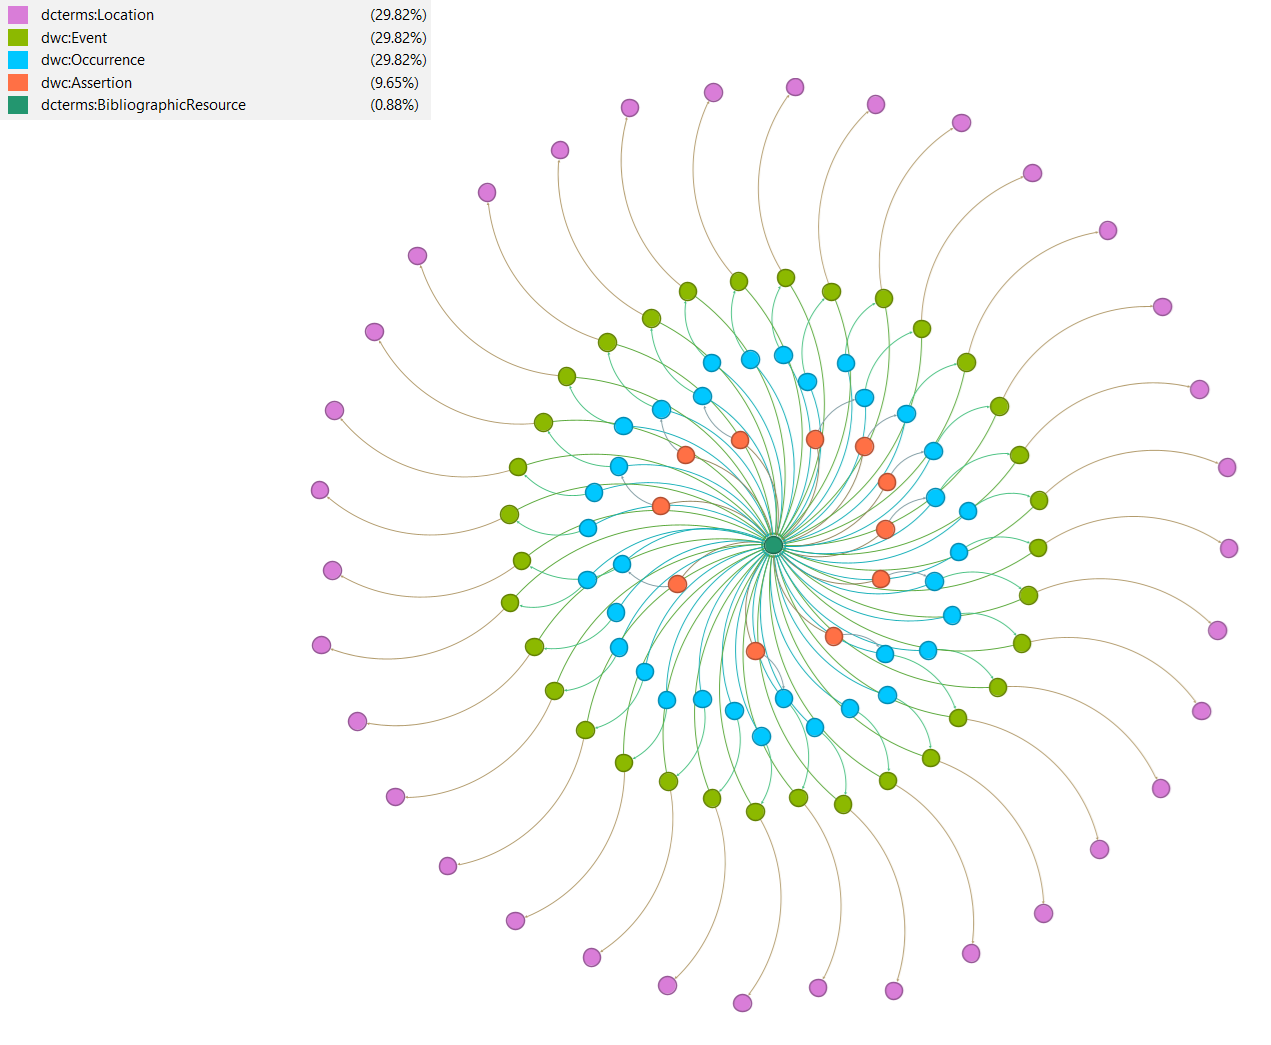
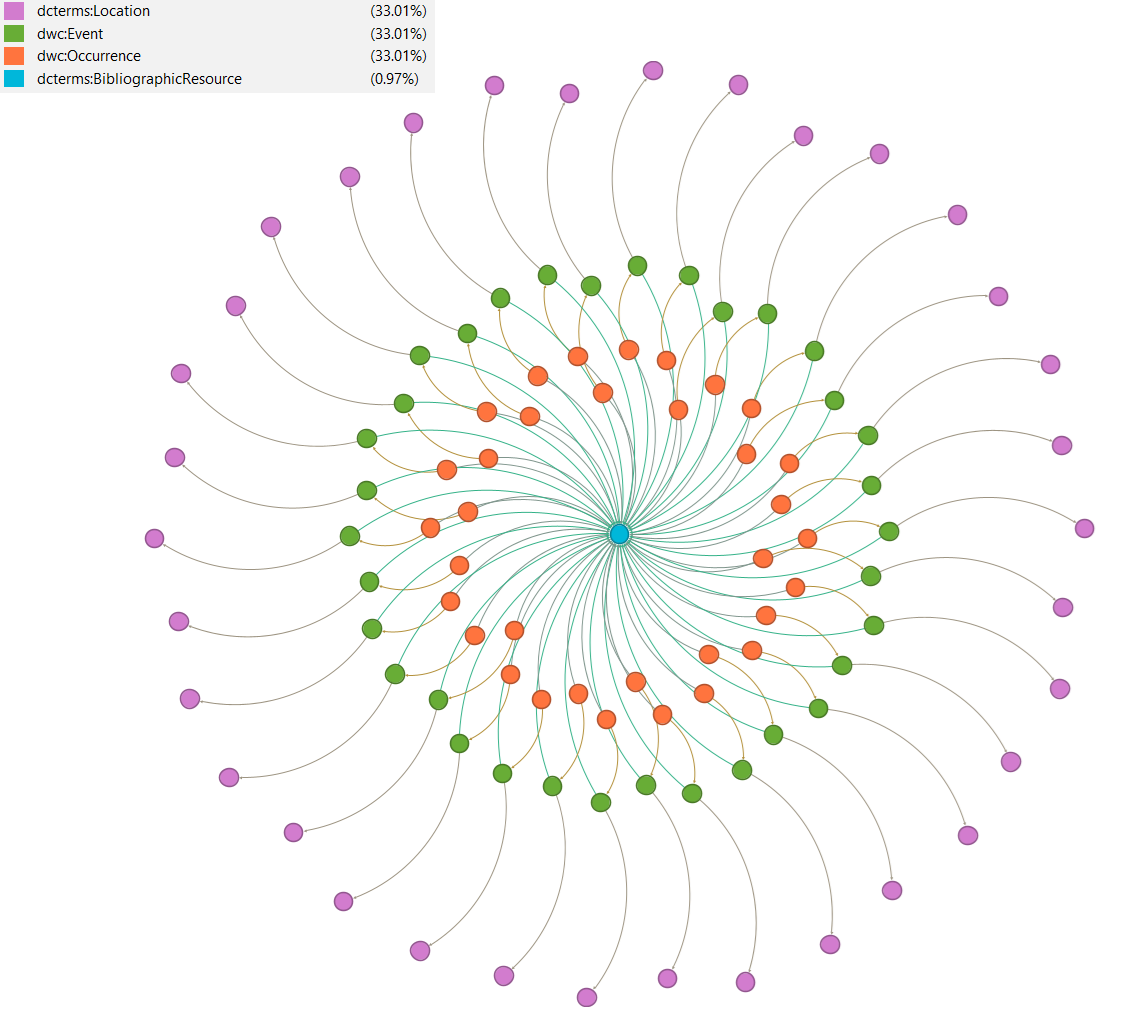
add solidobalanus records dataset text

diff --git a/README.md b/README.md
@@ -289,6 +289,136 @@ Values in the `dwc:occurrenceID` column follow the form `urn:catalog:JAMSTEC:god
 
 In this case, the object properties `dwcdp:hasSubjectOrientation` and `dwcdp:hasSubjectPart` play a role similar to `ac:subjectOrientationIRI` and `ac:subjectPartIRI`. However, the difference is that the `dwcdp:` bridges the gap between the OWL ontology and the SKOS vocabulary, by creating a subclass of `skos:Concept`. This allows for the creation an enumerated range for the object property and the consideration of various vocabularies.
 
+### *Solidobalanus fallax* records publication
+
+- **Dataset definition**: In 2004, the `Journal of the Marine Biological Association of the United Kingdom` (volume 84) published a paper titled `Habitat and distribution of the warm-water barnacle Solidobalanus fallax (Crustacea: Cirripedia) records`. The paper compiles occurrence records for the barnacle *Solidobalanus fallax* in the Plymouth area (south-west England). Records derive from a variety of sources, including trawl surveys on the Plymouth inshore grounds (since 1994), SCUBA observations (since 2000), and personal communications. The species is noted as having the potential to become a pest of aquaculture infrastructure south of Britain.
+
+- **Dataset organization**: The dataset can be downloaded either [from OBIS](https://obis.org/dataset/2218a192-6760-4718-bb1f-0f9d827fa291) or [from GBIF](https://www.gbif.org/dataset/29e95cd7-4759-4aa7-bde0-8463118c873a). Both endpoints give the same dataset. Within the Darwin Core Archive are three files, `occurrence.txt` which provides information the occurrences and one absence of the barnacle, `events.txt` which provides information about every record and finally `extendedmeasurementorfact.txt` which provides information about the abundance of each occurrence.
+
+- **Modelling considerations**: Because the dataset documents occurrences of a single species, a compact modelling approach is enough to capture the information. The classes used are `dwc:Occurrence`, `dwc:Event`, and `dcterms:Location`. These classes capture the spatial, temporal, and taxonomic aspects of the records without introducing unnecessary complexity.
+
+- **Ontology subset considered**: The ontology subset used to model this dataset comprised of `dwc:Occurrence`, `dwc:Event`, and `dcterms:Location`. The publication that collated the records was modelled as a `dcterms:BibliographicResource` and linked to occurrences and events using the object property `dwcdp:mentionedIn`.
+
+![Ontology subset for the solidobalanus dataset](images/subset/solidobalanus-small.png)
+
+- **Additions made**: The dataset, despite having three files, has less content than the original paper. The original paper provides textual descriptions of the locations, sometimes providing the event type. These were added back as `dwc:locationRemarks` values.
+
+Likewise, the paper also provided information about the substrate or the animals on which the barnacles were recorded. This information can be important to inform possible vectors of this barnacle, and were added back as `dwc:occurrenceRemarks`.
+
+- **Difficulties encountered**: As mentionned, the information contained in the `extendedmeasurementorfact.txt` table is simply the numeric values of the count of the barnacles at each event, when the values are not semiquantitative. Note that subevents are pooled to produce the final count value. The only thing added is the IRI from the NERC vocabulary for the concept of `count of individuals`, which is `<http://vocab.nerc.ac.uk/collection/P01/current/OCOUNT01>`.
+
+  I hesitated between whether to model this count value as a `dwc:Assertion` or not. The hesitancy was in large part to the fact that datatype properties, `dwc:organismQuantity` and `dwc:organismQuantityType`, to do this already exist. This means that providing the values `5` for `dwc:organismQuantity` and `individuals` for `dwc:organismQuantityType` would fill the same role as creating an instance of a `dwc:Assertion` for that same purpose.
+
+  However, I point out that there might be a valid reason to use this term, by pointing to the Broke-West fish dataset. Looking through the turtle file reveals this snippet:
+
+  ```turtle
+  <https://www.bioboum.ca/assertion/aav3ff-00248-stomach-136-rhincalanus-gigas-count> a dwc:Assertion ;
+    dwcdp:about <https://www.bioboum.ca/material/aav3ff-00248-stomach-136-rhincalanus-gigas> ;
+    dwcdp:assertionID "AAV3FF_00248_stomach_136_Rhincalanus gigas_count" ;
+    dwcdp:assertionType "individual count" ;
+    dwcdp:assertionValueNumeric 1.0 ;
+    dwcdp:materialEntityID "AAV3FF_00248_stomach_136_Rhincalanus gigas" .
+  ```
+
+  Which is a `dwc:Assertion` used to define the number of individuals of the copepod *Rhincalanus gigas*. However, in this case, it is allowed and necessary. The reason being that this `dwc:Assertion` is used here to describe the individual counts of organisms in a `dwc:MaterialEntity`, in this case the stomach content of an Antactic fish *Electrona antarctica*, and not a `dwc:Occurrence` as in the *Solidobalanus* dataset.
+
+- **Graph-based representation**: Given the small number of classes considered and their simple organization, the interpretation of the graph is straightforward. At the center of the graph is the scientific paper. The first ring around it are the `dwc:Occurrences` which are drawn to it because they are mentionned in the paper. The second ring consists of the `dwc:Events`, which despite being mentioned in the paper and drawn to it, are slightly more distant due to the fact that each event is connected to a `dcterms:Location`.
+
+![Directed graph for the solidobalanus dataset](images/complete/solidobalanus-directed-graph.png)
+
+- **Lessons learned**: When the barnacle was noted as being present on another organism and not on a substrate, an occurrence could have been created and linked to the barnacle occurrence through a `dwc:OrganismInteraction` instance. For example, consider the following line:
+
+| Date       | Location                | Number of *Solidobalanus* | Notes                         |
+|------------|-------------------------|---------------------------|-------------------------------|
+| 26-Jul-95  | trawl Bigbury Bay, 33 m | 4                         | 2 each on two *Maia squinado* |
+
+  This row could have converted into 2 separate instances of *Solidobalanus fallax*, each with `2` for `dwc:organismQuantity` and `individuals` for `dwc:organismQuantityType`, and two separate instances of spider crabs (*Maia squinado*), each with `1` for `dwc:organismQuantity` and `individuals` for `dwc:organismQuantityType`. The pairs of occurrences would be related through a `dwc:OrganismInteraction`, relating the fact that the barnacle was an epibiont on the spider crab.
+  
+  Though enticing, this becomes impossible for some rows such as:
+
+| Date       | Location             | Number of *Solidobalanus*  | Notes                                         |
+|------------|----------------------|----------------------------|-----------------------------------------------|
+| 29-Jun-95  | trawl off West Rutts | 14                         | on *Buccinum* shells inhabited by *Eupagurus* |
+  
+  In this case, we are incapable of doing the same exercise, as we do not know neither how many hermit crabs there are nor how the barnacles are spread.
+
+  However, the actual interest in this dataset was the following entry in table 1 of the paper that is quite original:
+
+| Date       | Location                           | Number of *Solidobalanus* | Notes                                  |
+|------------|------------------------------------|---------------------------|----------------------------------------|
+| 08-Nov-95  | dredge off Hillsea ('Stoke') Point | 1                         | on *Scalpellum* growing on *Eunicella* |
+
+Based on this entry, a single individual of *Solidobalanus* was observed on a goose barnacle (*Scalpellum*). However, this goose barnacle is itself noted as growing on a sea-fan (*Eunicella*). This means that there were two interactions between these three individuals. These types of interactions can represent an interesting modelling excercise.
+
+As suggested in the Darwin Core DataPackage explanations, `pairwise interactions must be used to represent multi-organism interactions`. As an exercise, this approach was taken, leading to the graph below:
+
+![Directed graph for the lanternfish dataset](images/subset/complex-1.png)
+
+In this case, the barnacle is on the bottom-left, the goose barnacle in the middle and the sea-fan on the top left. The pairs of `dwc:OrganismInteractions` describe successively the relationship between the three individuals.
+
+This exercise can be extended to consider a graph-based representation of the statement `In the scientific paper, it was mentionned that, during a dredge off Hillsea Point on the 8th of November 1995, 1 individual of Solidobalanus fallax was on Scalpellum growing on Eunicella`. This produced the graph below:
+
+![Directed graph for the lanternfish dataset](images/subset/complex-2.png)
+
+  Using, whenever possible real URLs, the statement can be encoded and shared as the following turtle file:
+
+```turtle
+@prefix bibo: <http://purl.org/ontology/bibo/> .
+@prefix dc: <http://purl.org/dc/elements/1.1/> .
+@prefix dcterms: <http://purl.org/dc/terms/> .
+@prefix dwc: <http://rs.tdwg.org/dwc/terms/> .
+@prefix dwcdp: <http://rs.tdwg.org/dwcdp/terms/> .
+@prefix xsd: <http://www.w3.org/2001/XMLSchema#> .
+
+<https://www.gbif.org/occurrence/4153002329> a dwc:Occurrence ;
+    dwc:occurrenceRemarks "on Scalpellum growing on Eunicella" ;
+    dwc:scientificName "Solidobalanus fallax" ;
+    dwcdp:mentionedIn <https://doi.org/10.1017/S0025315404010616h> ;
+    dwcdp:organismQuantity 1 ;
+    dwcdp:organismQuantityType "individuals" .
+
+<https://www.gbif.org/occurrence/4153002329-host1> a dwc:Occurrence ;
+    dwc:genus "Scalpellum" ;
+    dwcdp:mentionedIn <https://doi.org/10.1017/S0025315404010616h> .
+
+<https://www.gbif.org/occurrence/4153002329-host2> a dwc:Occurrence ;
+    dwc:genus "Eunicella" ;
+    dwcdp:mentionedIn <https://doi.org/10.1017/S0025315404010616h> .
+
+<http://bioboum.ca/organism-interaction/solidobalanus-on-scalpellum> a dwc:OrganismInteraction ;
+    dwc:organismInteractionType "was attached to" ;
+    dwcdp:happenedDuring <https://www.gbif.org/dataset/29e95cd7-4759-4aa7-bde0-8463118c873a/event/dasshdt00000144_013> ;
+    dwcdp:interactionBy <https://www.gbif.org/occurrence/4153002329> ;
+    dwcdp:interactionWith <https://www.gbif.org/occurrence/4153002329-host1> ;
+    dwcdp:mentionedIn <https://doi.org/10.1017/S0025315404010616h> .
+
+<http://bioboum.ca/organism-interaction/scalpellum-on-eunicella> a dwc:OrganismInteraction ;
+    dwc:organismInteractionType "was growing on" ;
+    dwcdp:happenedDuring <https://www.gbif.org/dataset/29e95cd7-4759-4aa7-bde0-8463118c873a/event/dasshdt00000144_013> ;
+    dwcdp:interactionBy <https://www.gbif.org/occurrence/4153002329-host1> ;
+    dwcdp:interactionWith <https://www.gbif.org/occurrence/4153002329-host2> ;
+    dwcdp:mentionedIn <https://doi.org/10.1017/S0025315404010616h> .
+
+<https://www.gbif.org/dataset/29e95cd7-4759-4aa7-bde0-8463118c873a/event/dasshdt00000144_013> a dwc:Event ;
+    dwc:eventDate "1995-11-08"^^xsd:date ;
+    dwc:eventType "dredge" ;
+    dwcdp:mentionedIn <https://doi.org/10.1017/S0025315404010616h> ;
+    dwcdp:spatialLocation <https://www.gbif.org/dataset/29e95cd7-4759-4aa7-bde0-8463118c873a/event/dasshdt00000144_013-loc> .
+
+<https://www.gbif.org/dataset/29e95cd7-4759-4aa7-bde0-8463118c873a/event/dasshdt00000144_013-loc> a dcterms:Location ;
+    dwc:coordinateUncertaintyInMeters 500.0 ;
+    dwc:decimalLatitude 50.288617 ;
+    dwc:decimalLongitude -4.045 ;
+    dwc:geodeticDatum "EPSG:4326" ;
+    dwc:locationRemarks "dredge off Hillsea ('Stoke') Point" .
+
+<https://doi.org/10.1017/S0025315404010616h> a dcterms:BibliographicResource ;
+    dc:title "Habitat and distribution of the warm-water barnacle Solidobalanus fallax (Crustacea: Cirripedia) records" ;
+    dcterms:issued "2004"^^xsd:gYear ;
+    bibo:pages "1169-1177" ;
+    bibo:volume "84" .
+```
+
 ### Turtle remote sensing dataset
 
 - **Dataset definition**: As part of the Marine Bioresource Conservation and Restoration Research project, a marine conservation initiative aimed at restoring ecosystem health through the protection and recovery of marine species, fifteen sea turtles were equipped with radio-transmitters. Their movements throughout the Western Pacific Ocean were monitored to inform species protection and habitat management strategies. The dataset spans October 2015 to October 2022. Although most tracks fall within the waters of South Korea and Japan, some individuals traveled as far as China and Vietnam.
